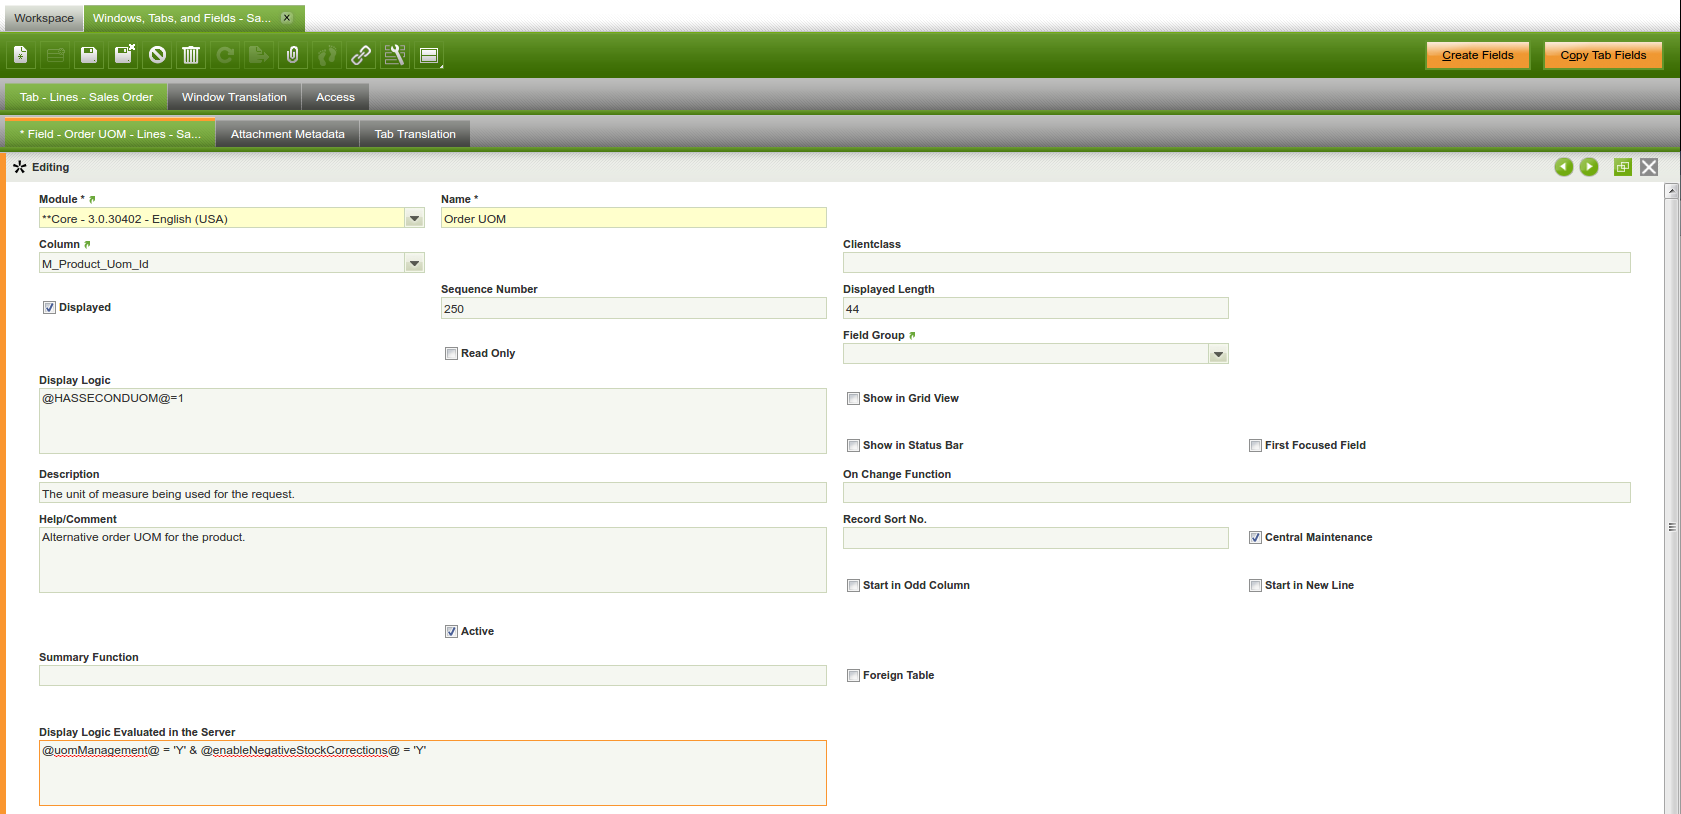
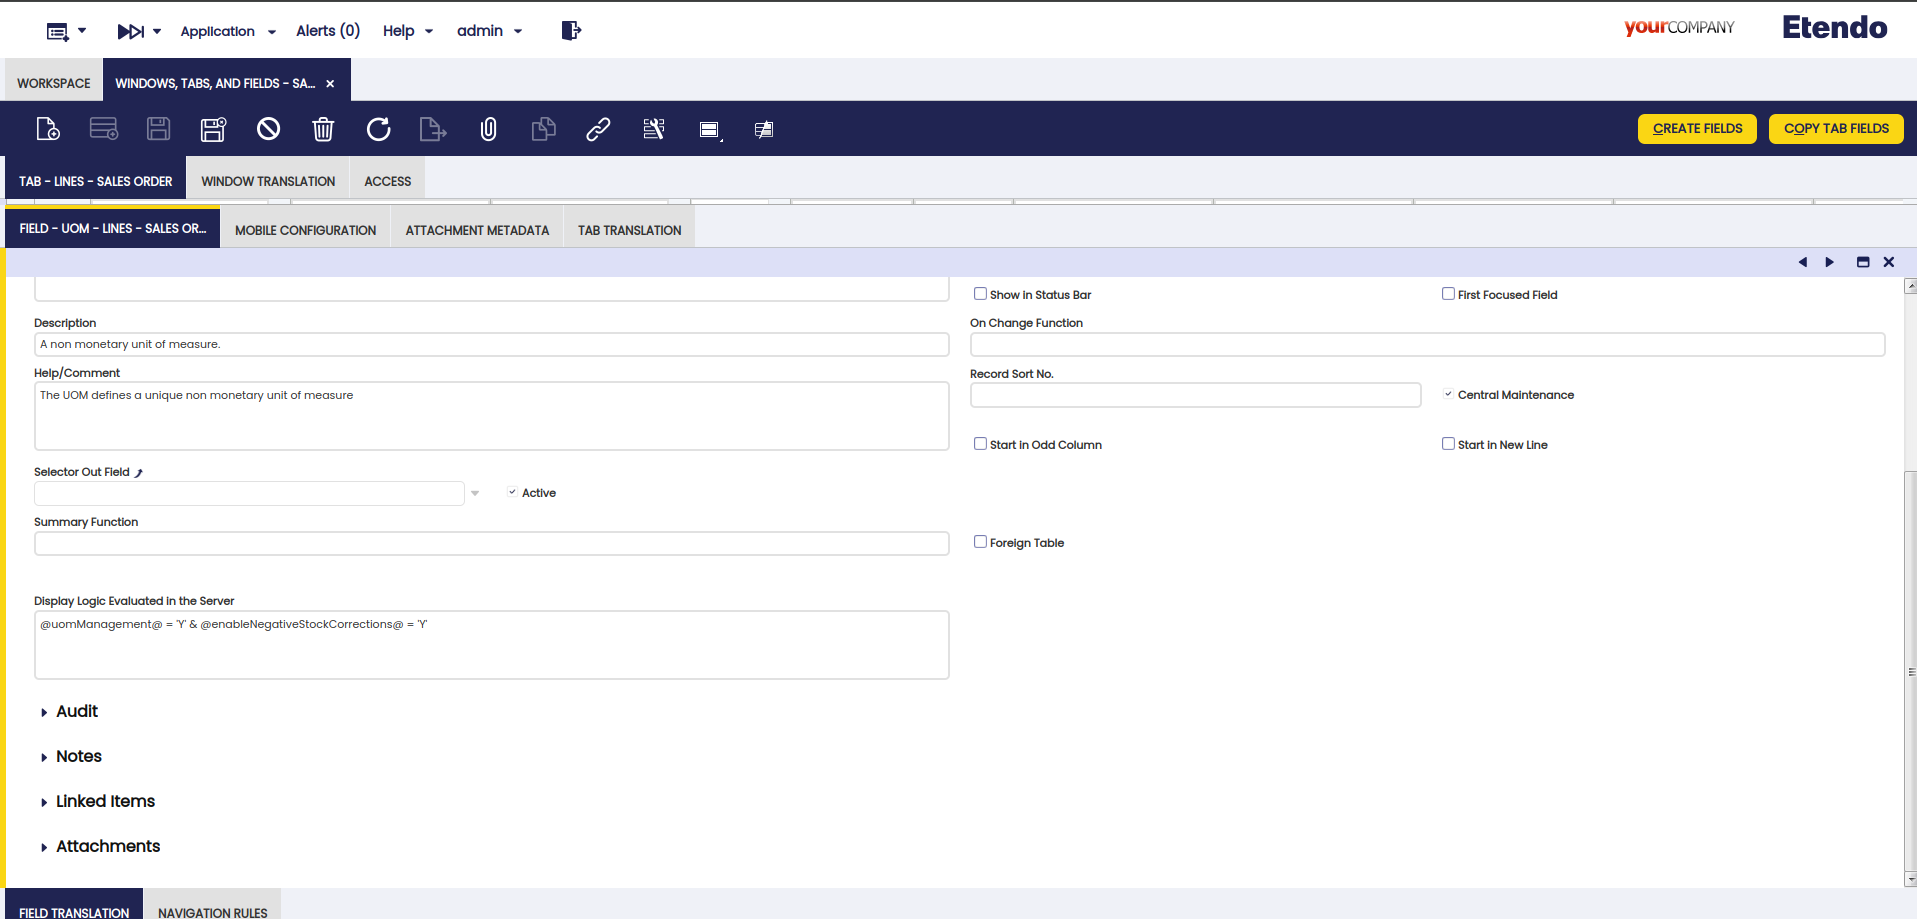
Feature EPL-1439: Approved technical specs

diff --git a/docs/developer-guide/etendo-classic/how-to-guides/how-to-define-display-logic-evaluated-at-server-level.md b/docs/developer-guide/etendo-classic/how-to-guides/how-to-define-display-logic-evaluated-at-server-level.md
@@ -1,0 +1,36 @@
+---
+tags:
+  - Etendo classic
+  - Display logic
+  - Fields
+  - Application dictionary
+---
+
+# How to define Display Logic Evaluated at Server Level
+
+## Overview
+
+With the introduction of this functionality, it is possible to define in Openbravo Display Logic that are going to be evaluated at Server Level.
+
+This means that the expression for this particular Display Logic is going to be evaluated while generating the code for the final Window instead of being evaluated when the Window is loaded.
+
+By doing so, it is possible to avoid blank fields when the field should not be shown. Instead, the fields are rearranged and the Window looks more clean.
+
+### Usage
+
+In the Windows, Tabs & Fields Window, there is a new field named _Display Logic Evaluated in the Server_ .
+
+In this field, it is possible to define an expression that will be evaluated to decide whether that particular field must be shown or not.
+
+This expression must follow the same syntactic rules that are used in the normal Display Logic. The expression can evaluate Preferences, but only those defined at System Level.
+
+An example of an expression would be:
+`@uomManagement@ = 'Y' & @enableNegativeStockCorrections@ = 'Y'`
+
+![](/assets/developer-guide/etendo-classic/how-to-guides/How_to_define_Display_Logic_Evaluated_at_Server_Level-1.png)
+
+### Limitations
+
+Since this functionality is going to be evaluated at a System Level (the visibility of the fields is going to be the same for all the Clients, Organizations and Users), it is possible to use Preferences, but only those ones that have been defined at System Level.
+
+This work is a derivative of [How to define Display Logic Evaluated at Server Level](http://wiki.openbravo.com/wiki/How_to_define_Display_Logic_Evaluated_at_Server_Level){target="\_blank"} by [Openbravo Wiki](http://wiki.openbravo.com/wiki/Welcome_to_Openbravo){target="\_blank"}, used under [CC BY-SA 2.5 ES](https://creativecommons.org/licenses/by-sa/2.5/es/){target="\_blank"}. This work is licensed under [CC BY-SA 2.5](https://creativecommons.org/licenses/by-sa/2.5/){target="\_blank"} by [Etendo](https://etendo.software){target="\_blank"}.
